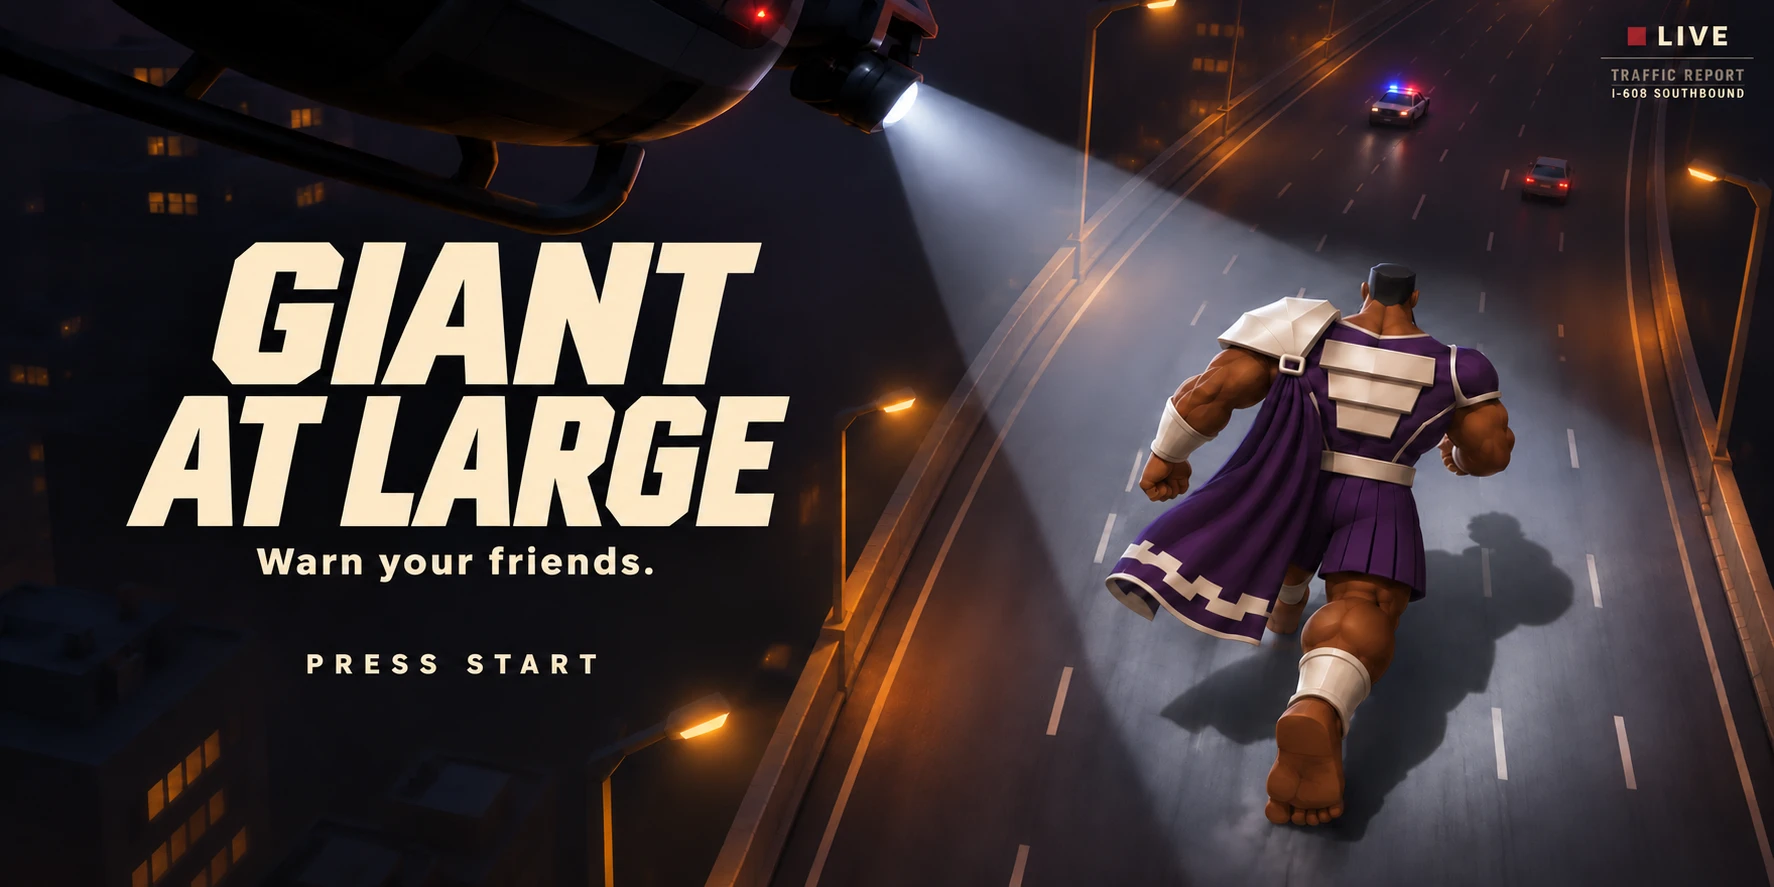
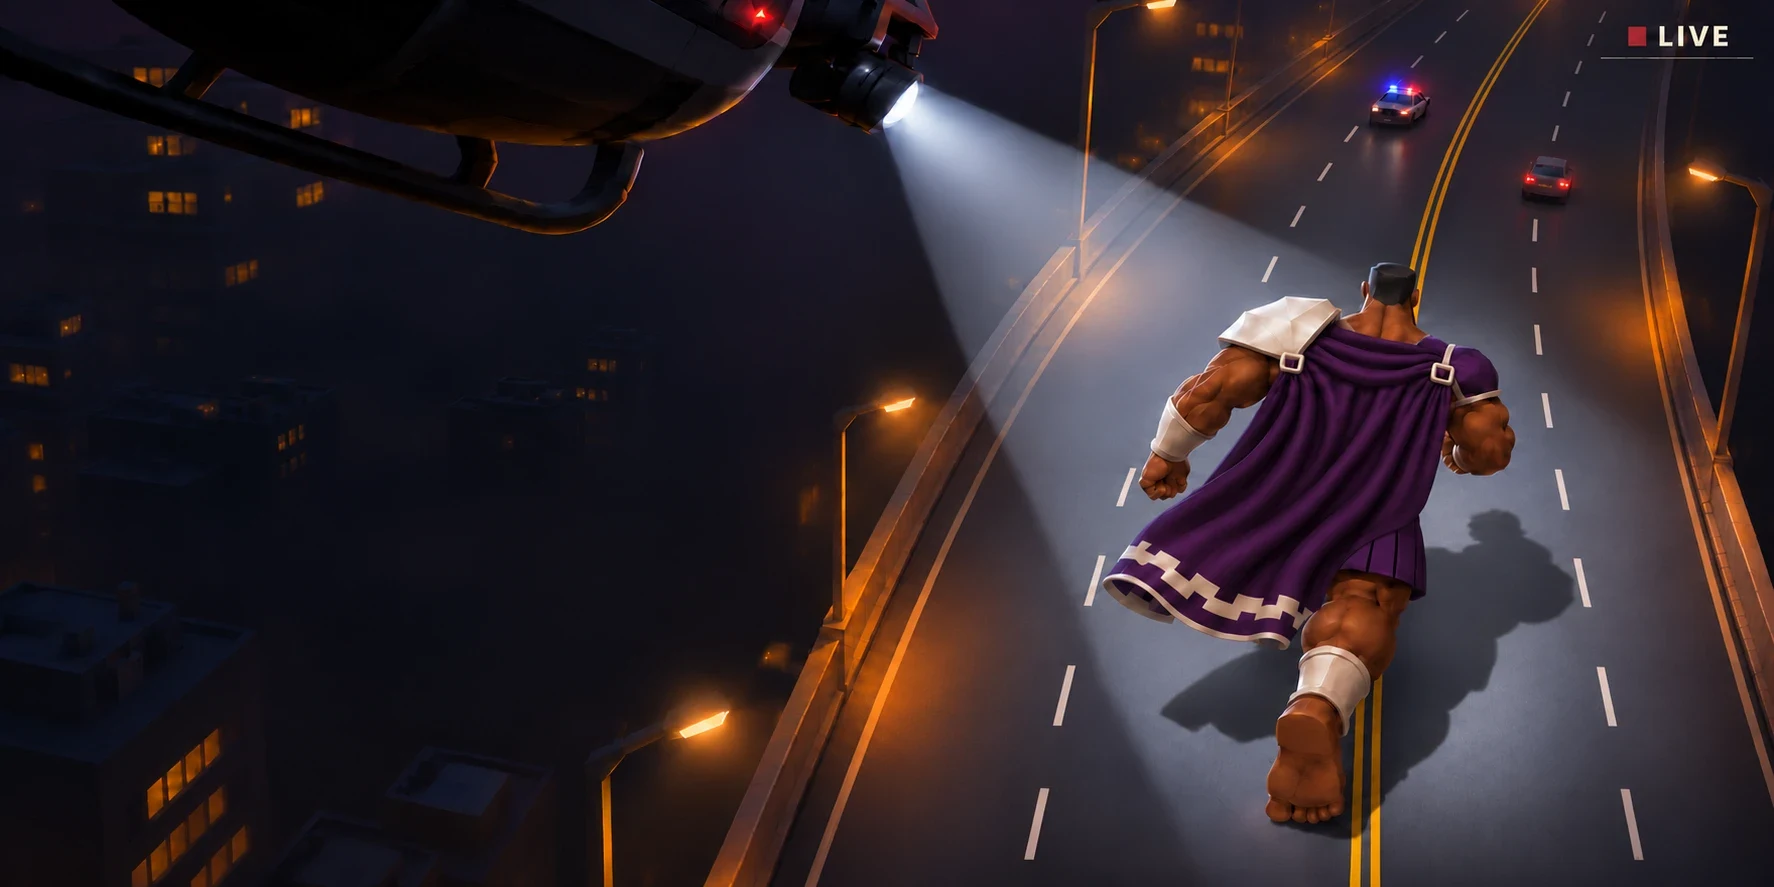
Title: text-free cover art, in-game wordmark over it; store key art
Gates not run: the private shell can't be installed in this container.

Claude-Session: https://claude.ai/code/session_01U6CEu3fiy3noBdMaT2kwPm

diff --git a/src/style.css b/src/style.css
@@ -415,15 +415,13 @@ html.title #hud, html.title #abil, html.title #controls, html.title #camtag, htm
 /* Cover art start screen (Mike): full-bleed over the live title; the attract shot slides in when idle. */
 #cover { position: absolute; inset: 0; z-index: 39; background: #07050d; pointer-events: none; transition: transform 0.9s cubic-bezier(0.7, 0, 0.3, 1), opacity 0.9s; }
 #cover[hidden] { display: none; }
-/* The art has text at both edges: show all of it (slim dark bars on screens narrower or wider than 2:1). */
-#cover img { width: 100%; height: 100%; object-fit: contain; display: block; }
+/* Text-free art (2026-11-25): fill the screen, cropping toward the giant (right of centre); the game's own UI is the text. */
+#cover img { width: 100%; height: 100%; object-fit: cover; object-position: 70% 50%; display: block; }
 #cover.away { transform: translateX(-100%); }
 html.cover #ui [data-screen-id="title"].slu-screen { background: none; cursor: pointer; }
 #ui [data-screen-id="title"].slu-screen { cursor: pointer; }
 @media (prefers-reduced-motion: reduce) { #cover { transition: opacity 0.6s; } #cover.away { transform: none; opacity: 0; } }
-/* The art carries its own wordmark, Press Start and LIVE bug: hide ours while it shows (the shell's
-   Start choice stays focusable, just invisible). */
-html.cover #ui [data-screen-id="title"] .slu-panel { opacity: 0; }
+/* The art carries only its LIVE bug: hide ours while it shows; the wordmark and Start are the game's. */
 html.cover #titlebug { display: none; }
 #ui [data-screen-id="title"] .slu-panel { transition: opacity 0.5s; }
 
